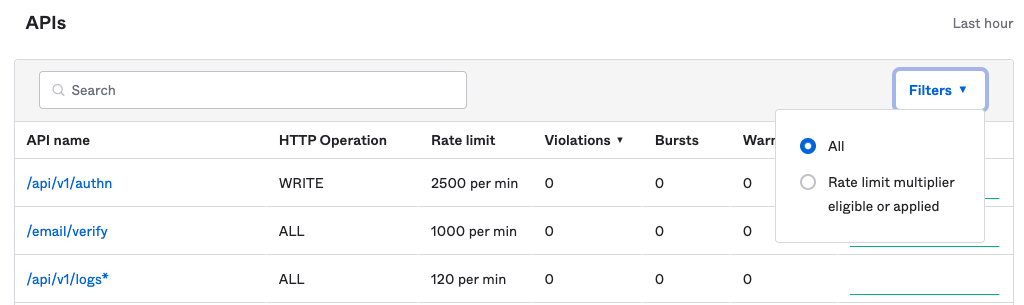
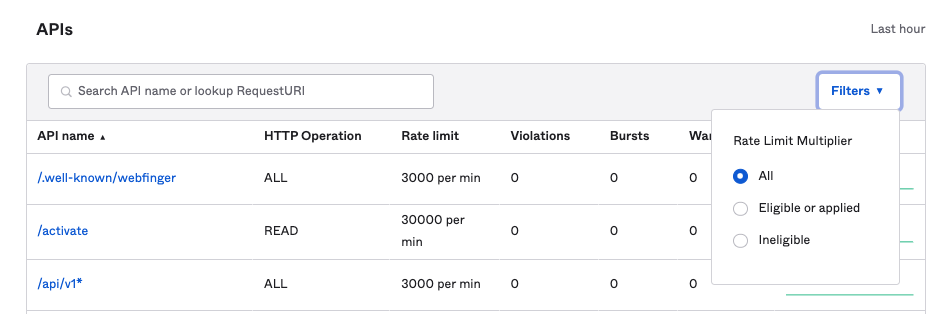
Minor sentence update in dashboard page and new image applied

diff --git a/packages/@okta/vuepress-site/docs/reference/rl-dashboard/index.md b/packages/@okta/vuepress-site/docs/reference/rl-dashboard/index.md
@@ -83,7 +83,7 @@ The APIs table shows each API and its corresponding rate limit for your org. The
 
 </div>
 
-You can sort on all the columns. The Trendline is sorted by the current usage. Use the **Filters** dropdown list to filter between all APIs that have rate-limit multipliers applied or that are multiplier eligible.
+You can sort on all the columns. The Trendline is sorted by the current usage. Use the **Filters** dropdown menu to filter between all APIs, those that have rate-limit multipliers applied or are multiplier eligible, or those that are ineligible.
 
 Each API is a link that navigates you to the [dashboard view of API rate limits and violations](#api-rate-limits-and-violations) where you can obtain more details on the API.
 
